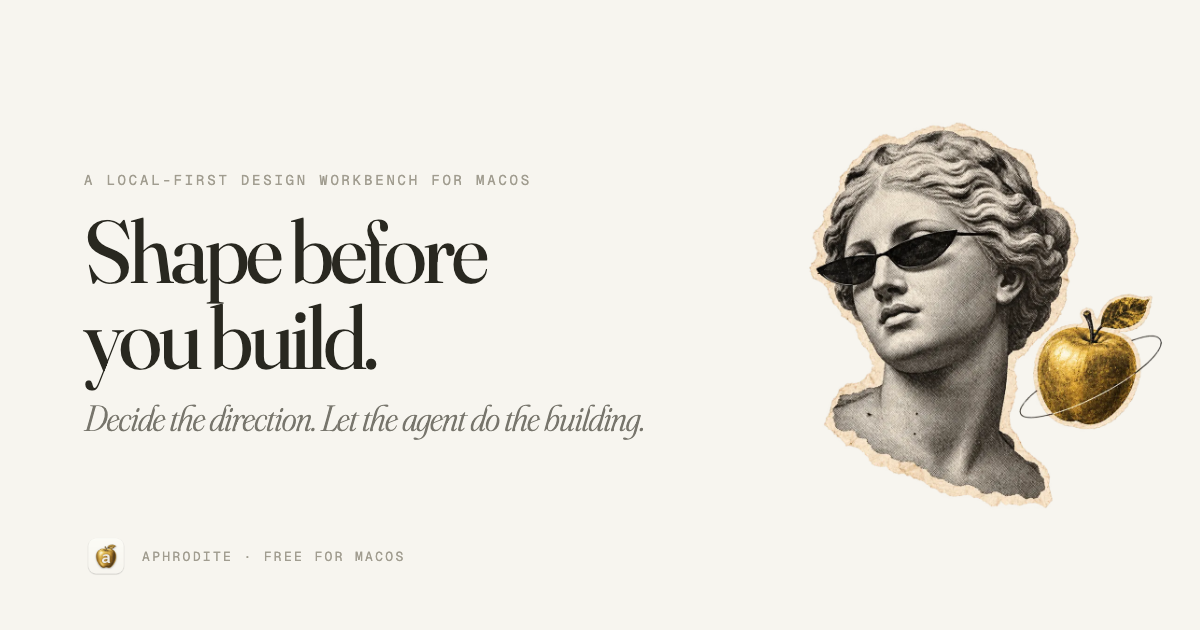
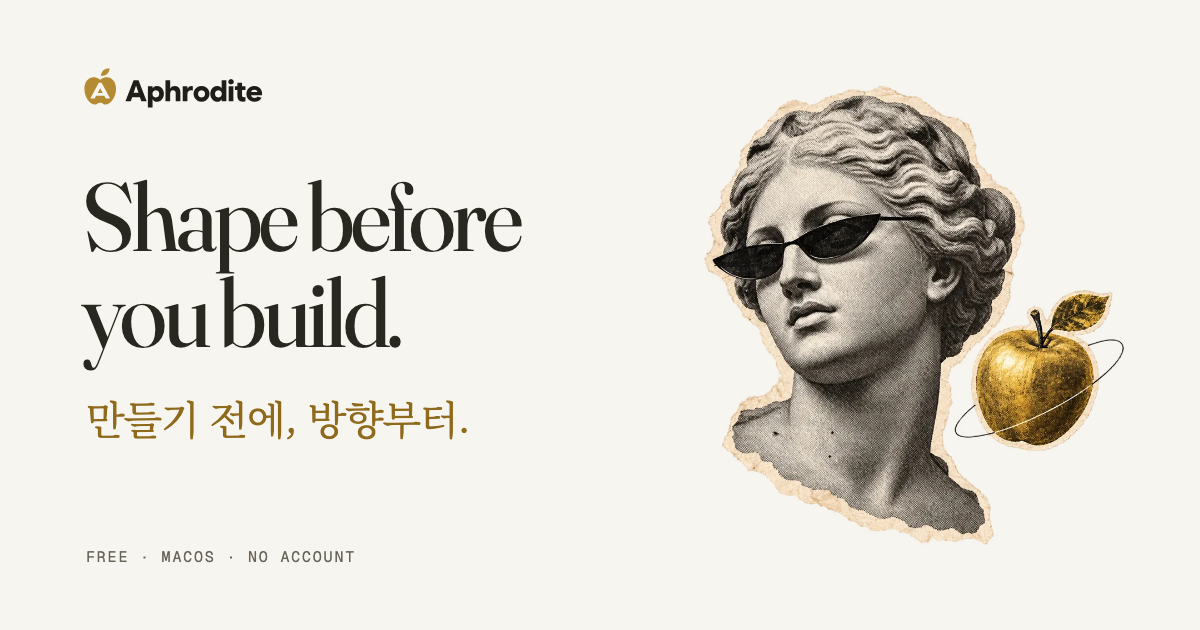
The landing's share picture is the new lockup with its own title over the statue, and the preview page shares its own with the concept line and the hand, both drawn by scripts/build-og.mjs

diff --git a/tests/preview-page.test.ts b/tests/preview-page.test.ts
@@ -62,7 +62,7 @@ test('the page reaches no host outside the list', () => {
     /^https:\/\/cdn\.jsdelivr\.net(\/gh\/orioncactus\/pretendard@v1\.3\.9\/dist\/web\/variable\/pretendardvariable-dynamic-subset\.min\.css)?$/,
     /^https:\/\/github\.com\/kwakseongjae\/aphrodite-mela(\.git|\/releases|\/issues|\/blob\/main\/THIRD_PARTY_NOTICES\.md)?\/?$/,
     /^https:\/\/github\.com\/$/, /^https:\/\/api\.github\.com\/repos\/$/,
-    /^https:\/\/kwakseongjae\.github\.io\/aphrodite-mela\/assets\/og\.png$/,
+    /^https:\/\/kwakseongjae\.github\.io\/aphrodite-mela\/preview\/assets\/og\.png$/,
   ];
   const urls = [...(html + js + css).matchAll(/https?:\/\/[^\s"'<>)]+/g)].map(m => m[0].replace(/&amp;/g, '&'));
   assert.ok(urls.length > 0);
@@ -162,6 +162,12 @@ for (const l of ['ko', 'en'] as const) test(`the ${l === 'ko' ? 'Korean' : 'Engl
 
 test('the line under the first picture waits for a real screen', () => {
   assert.ok(!Object.values(COPY!).some(v => /Claude Code가 만들었어요/.test(v.ko)));
+});
+
+test('the preview page shares its own picture, not the landing’s', () => {
+  assert.match(html, /<meta property="og:image" content="https:\/\/kwakseongjae\.github\.io\/aphrodite-mela\/preview\/assets\/og\.png">/);
+  assert.ok(existsSync(new URL('../site/preview/assets/og.png', import.meta.url)));
+  assert.ok(existsSync(new URL('../site/assets/og.png', import.meta.url)));
 });
 
 test('no visible words go untranslated except names, commands and the year', () => {

diff --git a/site/preview/index.html b/site/preview/index.html
@@ -8,7 +8,7 @@
   <meta name="description" content="쓰던 AI는 그대로, 작업물은 한곳에. Claude와 ChatGPT 구독은 쓰던 그대로 두세요. 여러 프로젝트의 작업물이 Aphrodite 보드 한곳에 모여요." data-i18n-content="meta.desc">
   <meta name="theme-color" content="#f7f5ef">
   <meta property="og:title" content="Aphrodite 미리보기판">
-  <meta property="og:image" content="https://kwakseongjae.github.io/aphrodite-mela/assets/og.png">
+  <meta property="og:image" content="https://kwakseongjae.github.io/aphrodite-mela/preview/assets/og.png">
   <link rel="icon" href="../assets/brand/favicon.svg" type="image/svg+xml">
   <link rel="icon" href="../assets/brand/favicon-32.png" type="image/png" sizes="32x32">
   <link rel="preconnect" href="https://fonts.googleapis.com">
